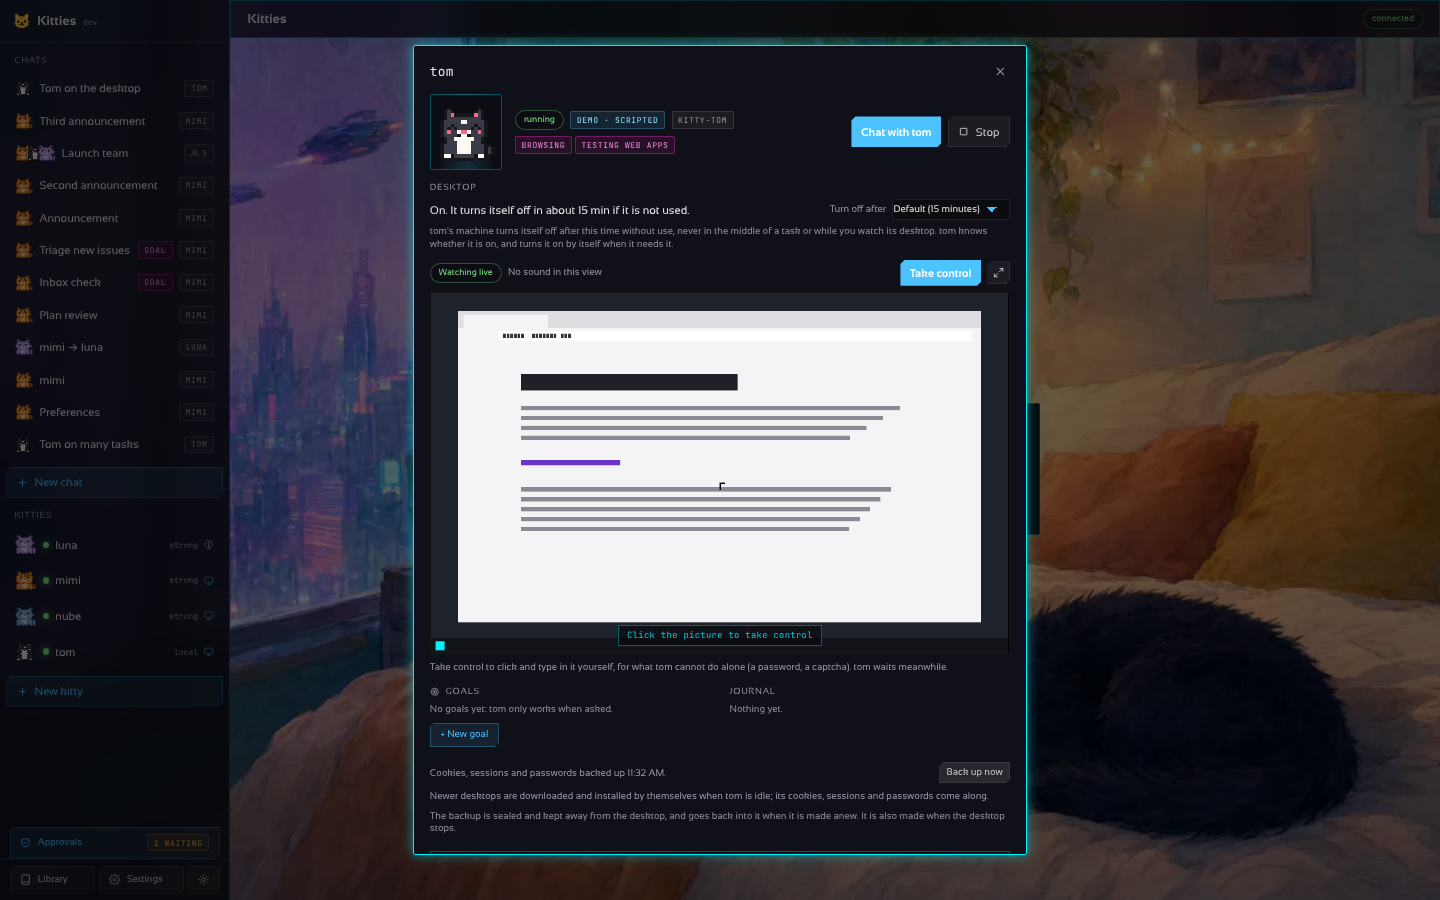
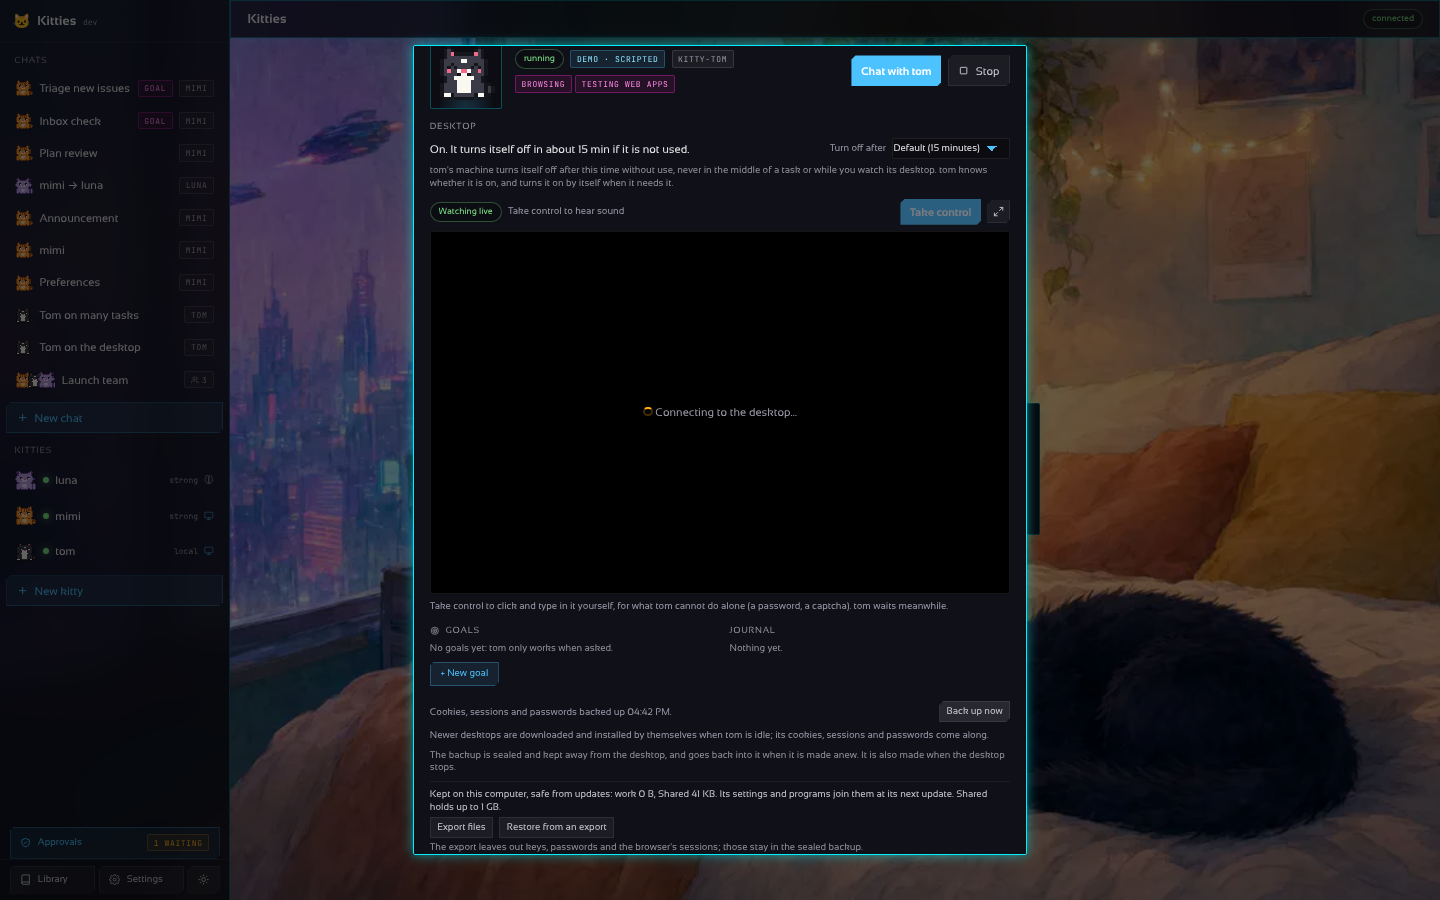
docs: explain what outlives a kitty's desktop, in docs and the landing (EN+ES)
Claude-Session: https://claude.ai/code/session_017Z7sUdCZFLCFkT5xieuLp4

diff --git a/site/es/index.html b/site/es/index.html
@@ -43,6 +43,8 @@
 <figure class="one"><img src="../img/live-chat.webp" alt="El escritorio en vivo con el chat de la kitty al lado, sus pasos bajo el mensaje" loading="lazy" width="1440" height="900"><figcaption>El escritorio en vivo con el chat al lado</figcaption></figure></section>
 <section id="files" class="wrap"><h2>Adjunta lo que quieras al chat</h2><p class="lead">Imágenes, PDF, documentos y texto: con el clip, arrastrándolos a la página o pegándolos. La kitty los lee con su propio modelo, y una kitty con máquina encuentra el archivo ahí para trabajar con él.</p>
 <figure class="one"><img src="../img/attach.webp" alt="Un chat con una imagen y una hoja de cálculo adjuntas, y un PDF esperando en el cuadro de mensaje" loading="lazy" width="1440" height="900"><figcaption>Un mensaje con una imagen y una hoja de cálculo, y un PDF listo para enviar</figcaption></figure></section>
+<section id="shared" class="wrap"><h2>Recupera lo que hacen, en cada actualización</h2><p class="lead">Cada kitty guarda su inicio, sus configuraciones y los programas que instaló en tu computadora, así que una imagen nueva del escritorio no cambia nada de lo que armó. Lo que hace para ti queda en su carpeta Compartido: previsualízalo y descárgalo desde la Biblioteca, guárdalo para las otras kitties o exporta todos sus archivos de una vez.</p>
+<figure class="one"><img src="../img/shared.webp" alt="La pestaña Compartido de la Biblioteca: documentos, una planilla y una imagen que hicieron las kitties, cada uno con botones para descargar y guardar" loading="lazy" width="1440" height="900"><figcaption>La pestaña Compartido de la Biblioteca</figcaption></figure></section>
 <section id="claude" class="wrap"><h2>Deja que Claude maneje la flota</h2><p class="lead">Activa el conector MCP en Ajustes y Claude Code o claude.ai podrán listar, crear, encender y dar tareas a tus kitties. Tú eliges qué puede hacer, copias el comando de conexión y revocas cualquier cliente con un clic. El token nunca se muestra.</p>
 <figure class="one"><img src="../img/mcp.webp" alt="Ajustes, Claude (MCP): los interruptores, el comando de conexión y los clientes con sesión" loading="lazy" width="1440" height="900"><figcaption>Ajustes → Preferencias → Claude (MCP)</figcaption></figure></section>
 <section id="claude" class="wrap"><h2>Que Claude dirija la flota</h2><p class="lead">Kitties habla MCP. Conecta Claude Code o claude.ai y Claude se vuelve el orquestador: crea, inicia y detiene kitties, les da tareas, mira sus escritorios y lee sus diarios. Viene desactivado, con un token propio; aprobar acciones de riesgo sigue siendo cosa tuya.</p>

diff --git a/site/index.html b/site/index.html
@@ -44,6 +44,8 @@
 <figure class="one"><img src="img/live-chat.webp" alt="The live desktop with the kitty’s chat beside it, its steps under the message" loading="lazy" width="1440" height="900"><figcaption>The live desktop with the chat beside it</figcaption></figure></section>
 <section id="files" class="wrap"><h2>Attach anything to the chat</h2><p class="lead">Pictures, PDFs, documents and text: with the paperclip, by dragging them onto the page or by pasting. The kitty reads them with its own model, and a kitty with a machine finds the file there to work on.</p>
 <figure class="one"><img src="img/attach.webp" alt="A chat where a picture and a spreadsheet were attached, with a PDF waiting in the composer" loading="lazy" width="1440" height="900"><figcaption>A message with a picture and a spreadsheet, and a PDF waiting to be sent</figcaption></figure></section>
+<section id="shared" class="wrap"><h2>Get back what they make, through every update</h2><p class="lead">Each kitty keeps its home, settings and the programs it installed on your computer, so a new desktop image changes nothing it built. What it makes for you lands in its Shared folder: preview and download it from the Library, keep it for the other kitties, or export a kitty’s files in one go.</p>
+<figure class="one"><img src="img/shared.webp" alt="The Library’s Shared tab: documents, a spreadsheet and a picture the kitties made, each with download and keep buttons" loading="lazy" width="1440" height="900"><figcaption>The Library’s Shared tab</figcaption></figure></section>
 <section id="claude" class="wrap"><h2>Let Claude run the fleet</h2><p class="lead">Turn on the MCP connector in Settings and Claude Code or claude.ai can list, create, start and give tasks to your kitties. You choose what it may do, copy the connect command and revoke any client in a click. The token is never shown.</p>
 <figure class="one"><img src="img/mcp.webp" alt="Settings, Claude (MCP): the switches, the connect command and the signed-in clients" loading="lazy" width="1440" height="900"><figcaption>Settings → Preferences → Claude (MCP)</figcaption></figure></section>
 <section id="claude" class="wrap"><h2>Let Claude run the fleet</h2><p class="lead">Kitties speaks MCP. Connect Claude Code or claude.ai and Claude becomes the orchestrator: it creates, starts and stops kitties, gives them tasks, looks at their desktops and reads their journals. Off by default, with a token of its own; approving risky actions stays with you.</p>

diff --git a/docs/DESKTOP.md b/docs/DESKTOP.md
@@ -194,7 +194,7 @@ The same can be done by hand: the kitty's window says **a newer desktop is avail
 on this machine is not the one the container runs) and **Update the desktop** does it, when the
 kitty is not in the middle of a task and you do not hold its desktop. Either way it pulls the image, closes the
 browser in an orderly way (`kitty-page quit`, so everything is written to disk), backs up, makes the
-container anew and puts the backup back. The work folder is on your computer and is never touched.
+container anew and puts the backup back. The work, home and Shared folders are on your computer and are never touched (see below).
 
 What the kitty's browser knows lives in that folder already (cookies, saved passwords, local
 storage), and now two things keep it from being lost: the browser closes in an orderly way before
@@ -211,6 +211,38 @@ when the desktop stops, before an update, and with **Back up now**. `kitty-resto
 a container that is made anew (it never overwrites a file that is there: a workspace that kept its
 profile is newer than any backup). A removed kitty's backup is deleted with it.
 
+## What outlives the desktop: home, programs and Shared
+
+Three folders of your computer are mounted into each kitty's desktop, and nothing deletes them: not
+an update, not a stop, not removing the kitty.
+
+| On your computer | In the desktop | What it holds |
+| --- | --- | --- |
+| `<data_dir>/work/<name>` | `~/work` | its files, the browser's profile, its theme and the Debian packages it installed |
+| `<data_dir>/homes/<name>` | `/home/kitty` | its settings (`~/.config`), the programs it installed for itself (`~/.local`: pipx, `pip --user`, `npm install -g`; `/opt/kitty-apps`) |
+| `<data_dir>/shared/<name>` | `~/Shared` | what it made for you: the app shows it in **Library > Shared** |
+
+- **Programs.** A Debian package comes back by itself in a desktop made anew, however it was installed
+  (`kitty-install`, `sudo apt install`: a dpkg hook remembers it); `kitty-install --remove <package>`
+  forgets it. Programs in `~/.local` or `/opt/kitty-apps` are simply there.
+- **Settings.** The home is seeded from the image (`kitty-home`): a file it lacks is copied, and only
+  the desktop's own look (Lumen's menus, picom, PCManFM, GTK) is renewed when the image changes.
+- **Shared.** `kitty-share <file>` copies a file there (`-d folder`, `--list`); the kitty is told so.
+  The page lists every kitty's files together, previews pictures and text, downloads anything, copies
+  a file into the library (**keep in library**) and deletes. Each folder holds up to
+  `containers.shared_quota_mb` (1024; negative: no limit), which `kitty-share` enforces.
+- **Moving an older desktop.** A desktop made before homes lived on your computer has its home inside
+  its container: before that container is removed, its home is copied out (`homes/.moving/<name>.tar`,
+  without `~/.cache`) and put into the new one, which restarts once. If the copy fails, the old
+  desktop is kept as it was and the update says why.
+- **Export and restore.** The kitty's window shows what it keeps and its size, **Export files**
+  downloads a `.tar.gz` of its home, work and Shared folders without keys, passwords or the browser's
+  sessions (those stay in the sealed backup), and **Restore from an export** puts one back into the
+  running desktop (a newer file of the kitty's stays).
+
+![What a kitty keeps on your computer](screenshots/64-desktop-kept-files.png)
+![The library: what the kitties shared](screenshots/62-library-shared.png)
+
 ## Where it lives in the code
 
 | What | Where |
@@ -223,6 +255,7 @@ profile is newer than any backup). A removed kitty's backup is deleted with it.
 | What the kitty knows of its machine, the `machine` tool, the auto turn-on | [`internal/chat/machine.go`](../internal/chat/machine.go) |
 | Taking over: holds, the person's input, `ask_help` | [`internal/orchestrator/control.go`](../internal/orchestrator/control.go) |
 | The sealed backups of a kitty's sessions, and the update of a desktop | [`internal/keep`](../internal/keep), [`internal/orchestrator/sessions.go`](../internal/orchestrator/sessions.go) |
+| Home, Shared, the move of an older home, export and restore | [`internal/orchestrator/home.go`](../internal/orchestrator/home.go), [`internal/shared`](../internal/shared), [`internal/gateway/shared.go`](../internal/gateway/shared.go) |
 | The saved secrets a kitty may type, sealed | [`internal/vault`](../internal/vault) |
 | The live view's proxy (voxl) and its tunnel into the container | [`internal/gateway/voxl.go`](../internal/gateway/voxl.go), [`internal/container/tunnel.go`](../internal/container/tunnel.go) |
 | What changed on the display, as rectangles to draw over the last picture | [`internal/rects`](../internal/rects) |

diff --git a/docs/DESKTOP.es.md b/docs/DESKTOP.es.md
@@ -222,6 +222,38 @@ ahora**. `kitty-restore` se lo devuelve a un contenedor que se rehace (nunca sob
 que ya está: un workspace que conservó su perfil es más nuevo que cualquier respaldo). El respaldo de
 un kitty eliminado se borra con él.
 
+## Lo que sobrevive al escritorio: inicio, programas y Compartido
+
+Tres carpetas de tu computadora se montan en el escritorio de cada kitty, y nada las borra: ni una
+actualización, ni una detención, ni eliminar al kitty.
+
+| En tu computadora | En el escritorio | Qué guarda |
+| --- | --- | --- |
+| `<data_dir>/work/<nombre>` | `~/work` | sus archivos, el perfil del navegador, su tema y los paquetes de Debian que instaló |
+| `<data_dir>/homes/<nombre>` | `/home/kitty` | sus configuraciones (`~/.config`) y los programas que instaló para sí (`~/.local`: pipx, `pip --user`, `npm install -g`; `/opt/kitty-apps`) |
+| `<data_dir>/shared/<nombre>` | `~/Shared` | lo que hizo para ti: la app lo muestra en **Biblioteca > Compartido** |
+
+- **Programas.** Un paquete de Debian vuelve solo en un escritorio rehecho, como sea que se haya
+  instalado (`kitty-install`, `sudo apt install`: un hook de dpkg lo recuerda); `kitty-install --remove
+  <paquete>` lo olvida. Lo que está en `~/.local` o `/opt/kitty-apps` simplemente sigue ahí.
+- **Configuraciones.** El inicio se siembra desde la imagen (`kitty-home`): se copia lo que falta, y solo
+  el aspecto propio del escritorio (menús de Lumen, picom, PCManFM, GTK) se renueva cuando cambia la imagen.
+- **Compartido.** `kitty-share <archivo>` copia un archivo ahí (`-d carpeta`, `--list`); el kitty lo sabe.
+  La página lista los archivos de todos los kitties, previsualiza imágenes y texto, descarga cualquiera,
+  copia uno a la biblioteca (**guardar en biblioteca**) y borra. Cada carpeta admite hasta
+  `containers.shared_quota_mb` (1024; negativo: sin límite), que `kitty-share` respeta.
+- **Mover un escritorio antiguo.** Un escritorio hecho antes de que el inicio viviera en tu computadora
+  lo tiene dentro del contenedor: antes de borrarlo se copia (`homes/.moving/<nombre>.tar`, sin
+  `~/.cache`) y se pone en el nuevo, que se reinicia una vez. Si la copia falla, el escritorio antiguo
+  se deja como estaba y la actualización dice por qué.
+- **Exportar y restaurar.** La ventana del kitty muestra lo que guarda y cuánto ocupa; **Exportar
+  archivos** descarga un `.tar.gz` de su inicio, trabajo y Compartido sin llaves, contraseñas ni
+  sesiones del navegador (esas quedan en el respaldo cifrado), y **Restaurar desde una exportación** lo
+  devuelve al escritorio en marcha (un archivo más nuevo del kitty se queda).
+
+![Lo que un kitty guarda en tu computadora](screenshots/64-desktop-kept-files.png)
+![La biblioteca: lo que compartieron los kitties](screenshots/62-library-shared.png)
+
 ## Dónde está en el código
 
 | Qué | Dónde |

diff --git a/docs/API.md b/docs/API.md
@@ -38,6 +38,8 @@
 | `GET /v1/chats/{id}/turns/{n}/replay.gif` · `POST …/turns/{n}/help` `{text, secret, enter, save}` | a task as an animated GIF; the person's answer to a kitty that asked for help (a secret is typed on its desktop, not told) |
 | `GET /v1/vault` · `PUT/DELETE /v1/vault/{name}` `{value, kitties}` | the secrets a kitty may type: names and who may use them, never values |
 | `GET /v1/kitties/{ref}/desktop` · `POST …/backup` · `POST …/update` | its desktop's image and whether a newer one waits, the backup of its cookies, sessions and passwords, and moving it to the newest image |
+| `GET /v1/shared` · `GET`/`DELETE /v1/kitties/{ref}/shared/{path}` (`?download=1`) · `POST /v1/kitties/{ref}/keep/{path}` | what every kitty left in its Shared folder (and the quota), one file (sandboxed), delete it, copy it into the library |
+| `GET /v1/kitties/{ref}/export` · `POST /v1/kitties/{ref}/import` | a `.tar.gz` of its home, work and Shared folders without keys, passwords or browser sessions; put one back into its running desktop |
 | `GET /v1/update` (`?refresh=1`) · `POST /v1/update/apply` | the version of Kitties and whether a newer one is out; install it and restart |
 | `POST /v1/settings/accounts/{kind}/login` · `GET/DELETE /v1/settings/logins/{id}` · `POST …/paste` · `DELETE /v1/settings/accounts/{kind}` | sign a model in with a subscription, follow it, paste the browser's address, sign out |
 

diff --git a/docs/APPS.md b/docs/APPS.md
@@ -24,6 +24,7 @@ cd desktop && wails dev   # live reload while working on it
 | ![Settings: the connectors](screenshots/09-settings-connectors.png) | ![The catalogue: one button per service](screenshots/17-connector-catalogue.png) |
 | ![Google Workspace: sign in with OAuth](screenshots/18-connector-oauth.png) | ![A kitty's own display](screenshots/13-tom-display.png) |
 | ![The library: skills](screenshots/15-library-skills.png) | ![The library: artifacts](screenshots/16-library-artifacts.png) |
+| ![The library: what the kitties shared with you](screenshots/62-library-shared.png) | ![A kitty's files on your computer: export and restore](screenshots/64-desktop-kept-files.png) |
 | ![A markdown artifact opened in the reader](screenshots/60-artifact-reader.png) | ![A code block in colour, opened from a #artifact/ link](screenshots/61-artifact-code.png) |
 | ![New kitty: pick its pixel cat](screenshots/07-new-kitty.png) | ![Light mode](screenshots/11-light.png) |
 | ![A real kitty's desktop, live: Chromium and a terminal on Lumen](screenshots/48-live-desktop.png) | ![Taking control: a command typed in the kitty's terminal](screenshots/49-live-desktop-control.png) |

diff --git a/docs/KITTY-DESKTOP.md b/docs/KITTY-DESKTOP.md
@@ -74,8 +74,12 @@ checksum are pinned in the Dockerfile (`LUCIDE_VERSION`, `LUCIDE_SHA256`).
 Chromium, a terminal (xterm), PCManFM, Mousepad, LibreOffice (Writer, Calc, Impress), Inkscape,
 ImageMagick and mtPaint, plus `xdotool`, `wmctrl` and `scrot` for the kitty's hands and eyes.
 `kitty-install` adds programs from Debian (sudo only runs the installer, by package name) and
-remembers them in the workspace, so a container made anew installs them again. Nothing is
-published on the host: the orchestrator reaches a kitty with `docker exec`.
+remembers them in the workspace, so a container made anew installs them again (a plain
+`sudo apt install` is remembered too, by a dpkg hook). The home (`/home/kitty`, with `~/.local` and
+`/opt/kitty-apps`) and `~/Shared` are folders of the host that outlive the container
+([DESKTOP.md](DESKTOP.md#what-outlives-the-desktop-home-programs-and-shared)); `kitty-share` puts a
+file in Shared for the person. Nothing is published on the host: the orchestrator reaches a kitty
+with `docker exec`.
 
 ## Changing it
 

diff --git a/README.md b/README.md
@@ -30,6 +30,10 @@ a desktop app and an Android app.
   them onto the page, by pasting, or with `/attach` in the CLI. The model sees pictures and PDFs where its provider reads
   them, gets the text of the rest, and a kitty with a machine finds the file in
   `/home/kitty/work/uploads`.
+- **Work that survives updates.** Each kitty's home, settings and the programs it installed live on
+  your computer, so a new desktop image changes nothing it built. What it makes for you lands in its
+  `~/Shared` folder (`kitty-share`), which the app shows in **Library > Shared** to preview, download or
+  keep; a kitty's files export to one `.tar.gz` without its secrets ([details](docs/DESKTOP.md#what-outlives-the-desktop-home-programs-and-shared)).
 - **Autonomy.** Goals on a schedule or triggered by events, limits and a daily budget, retries, a
   backup kitty, delegation between kitties and a journal of everything.
 - **Trust and memory.** Notes that persist, thumbs that teach it your standards, action limits and
